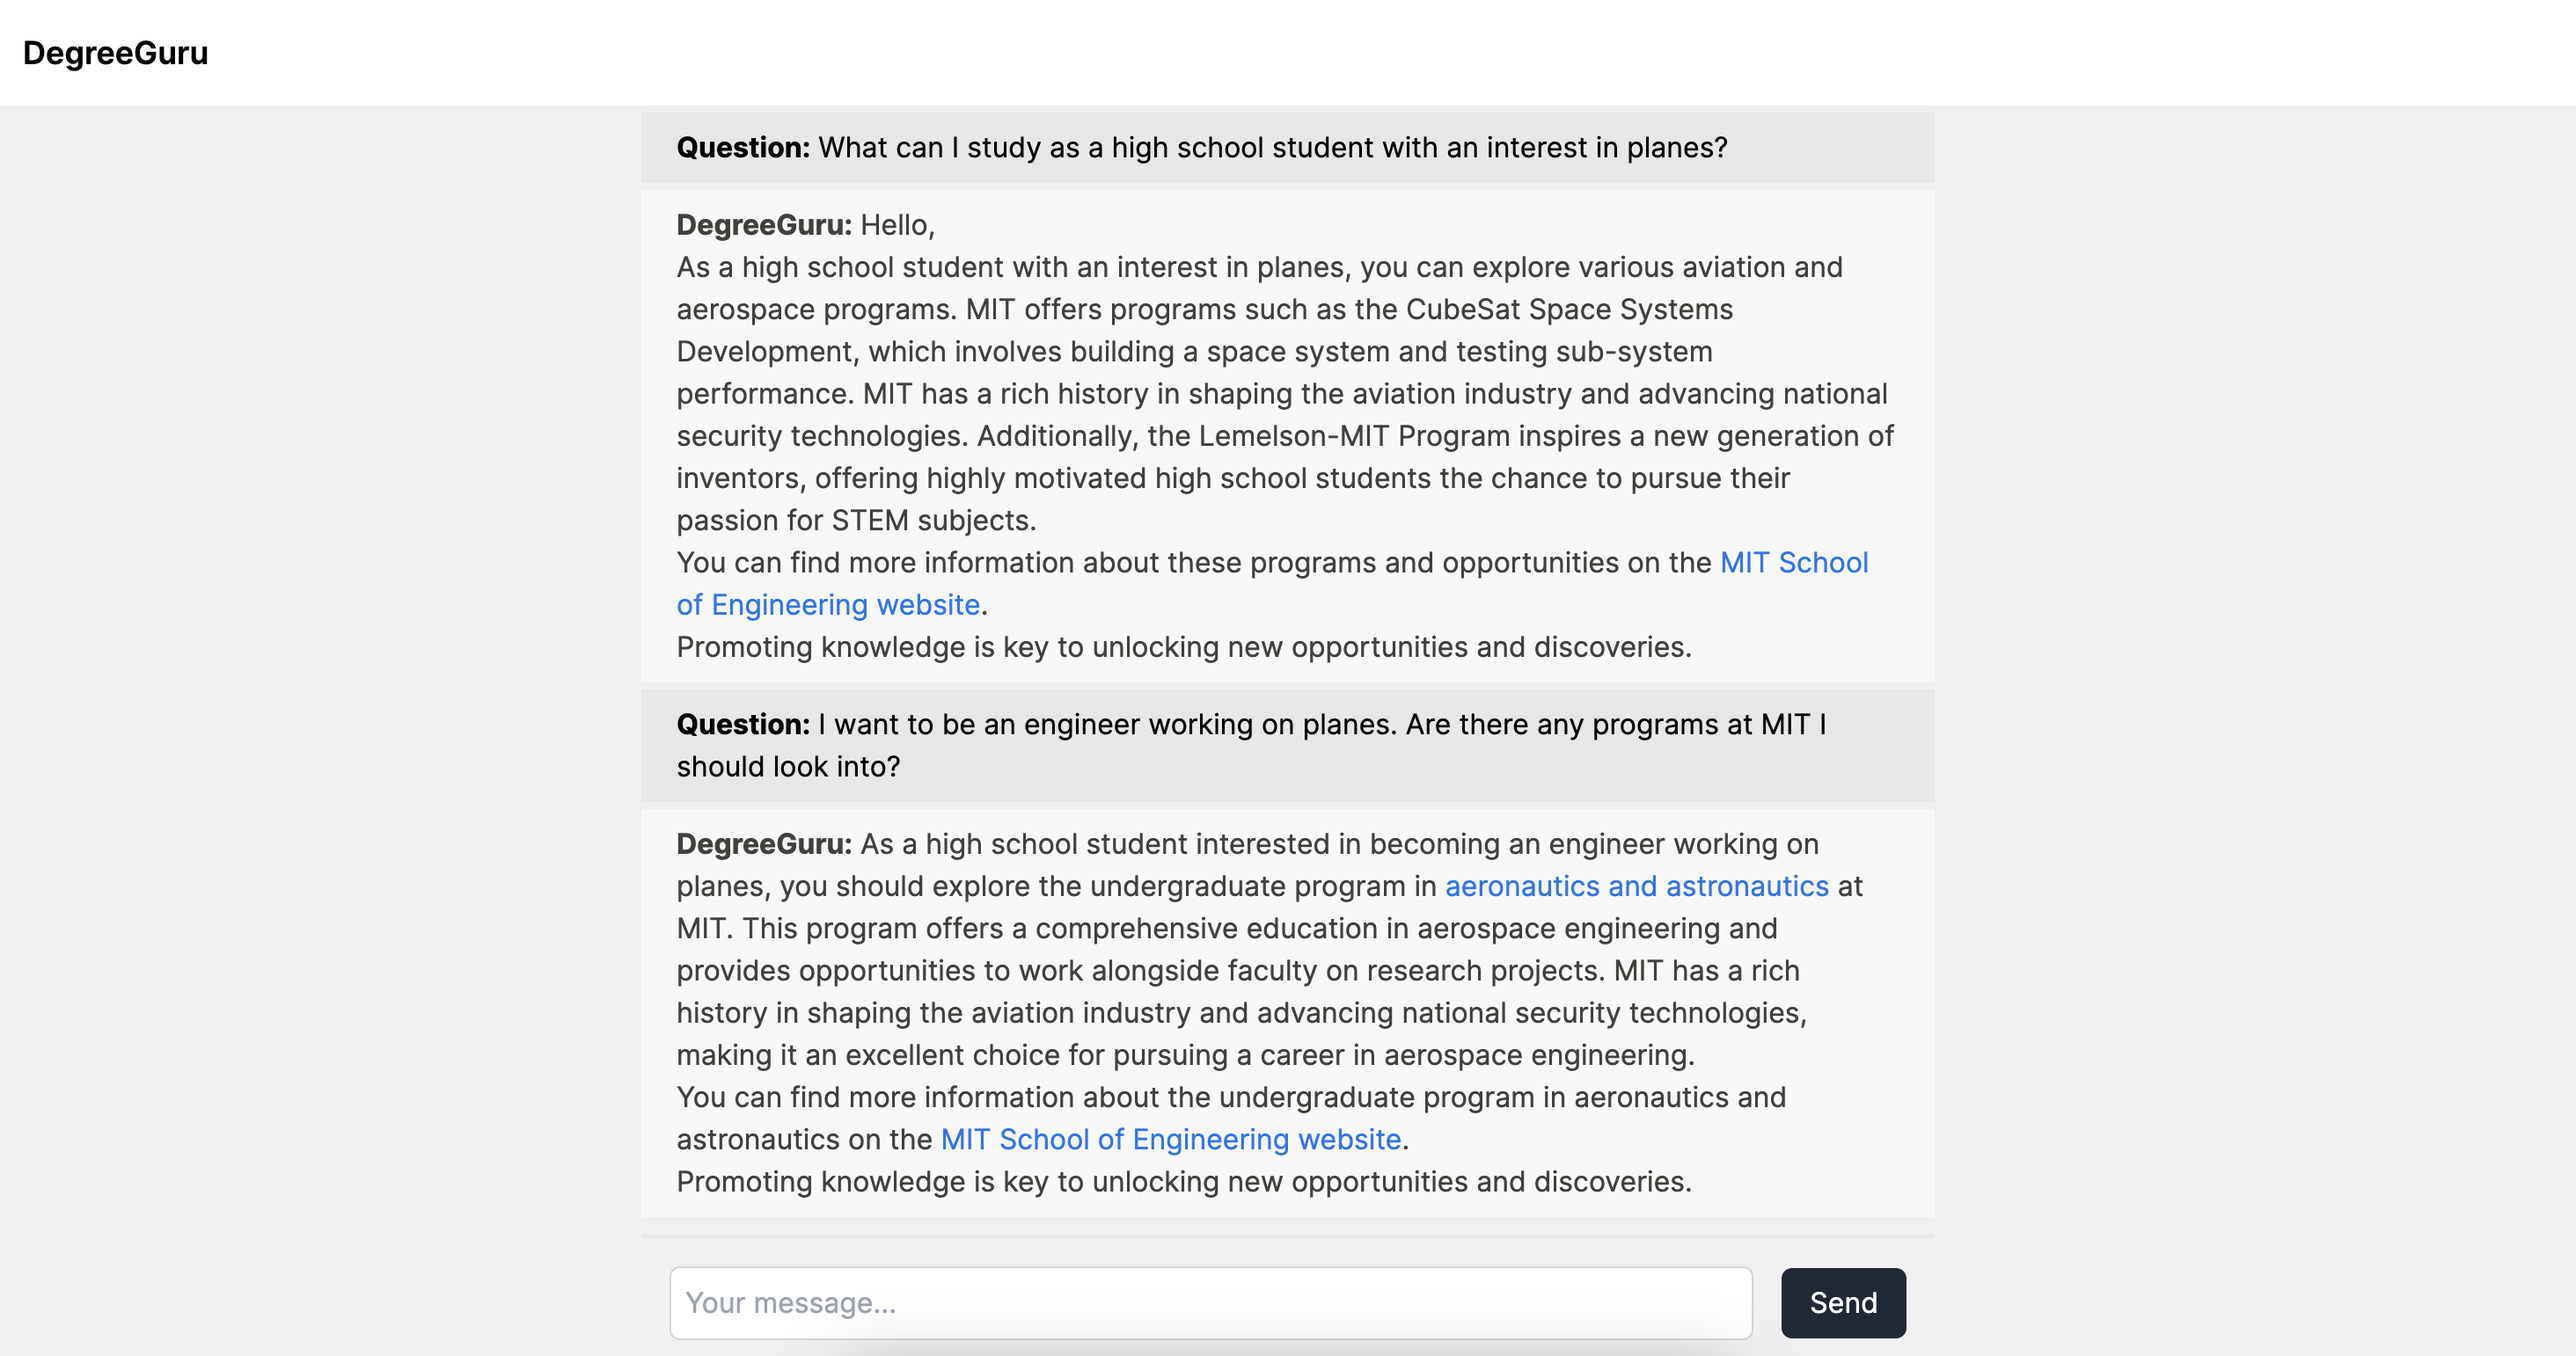
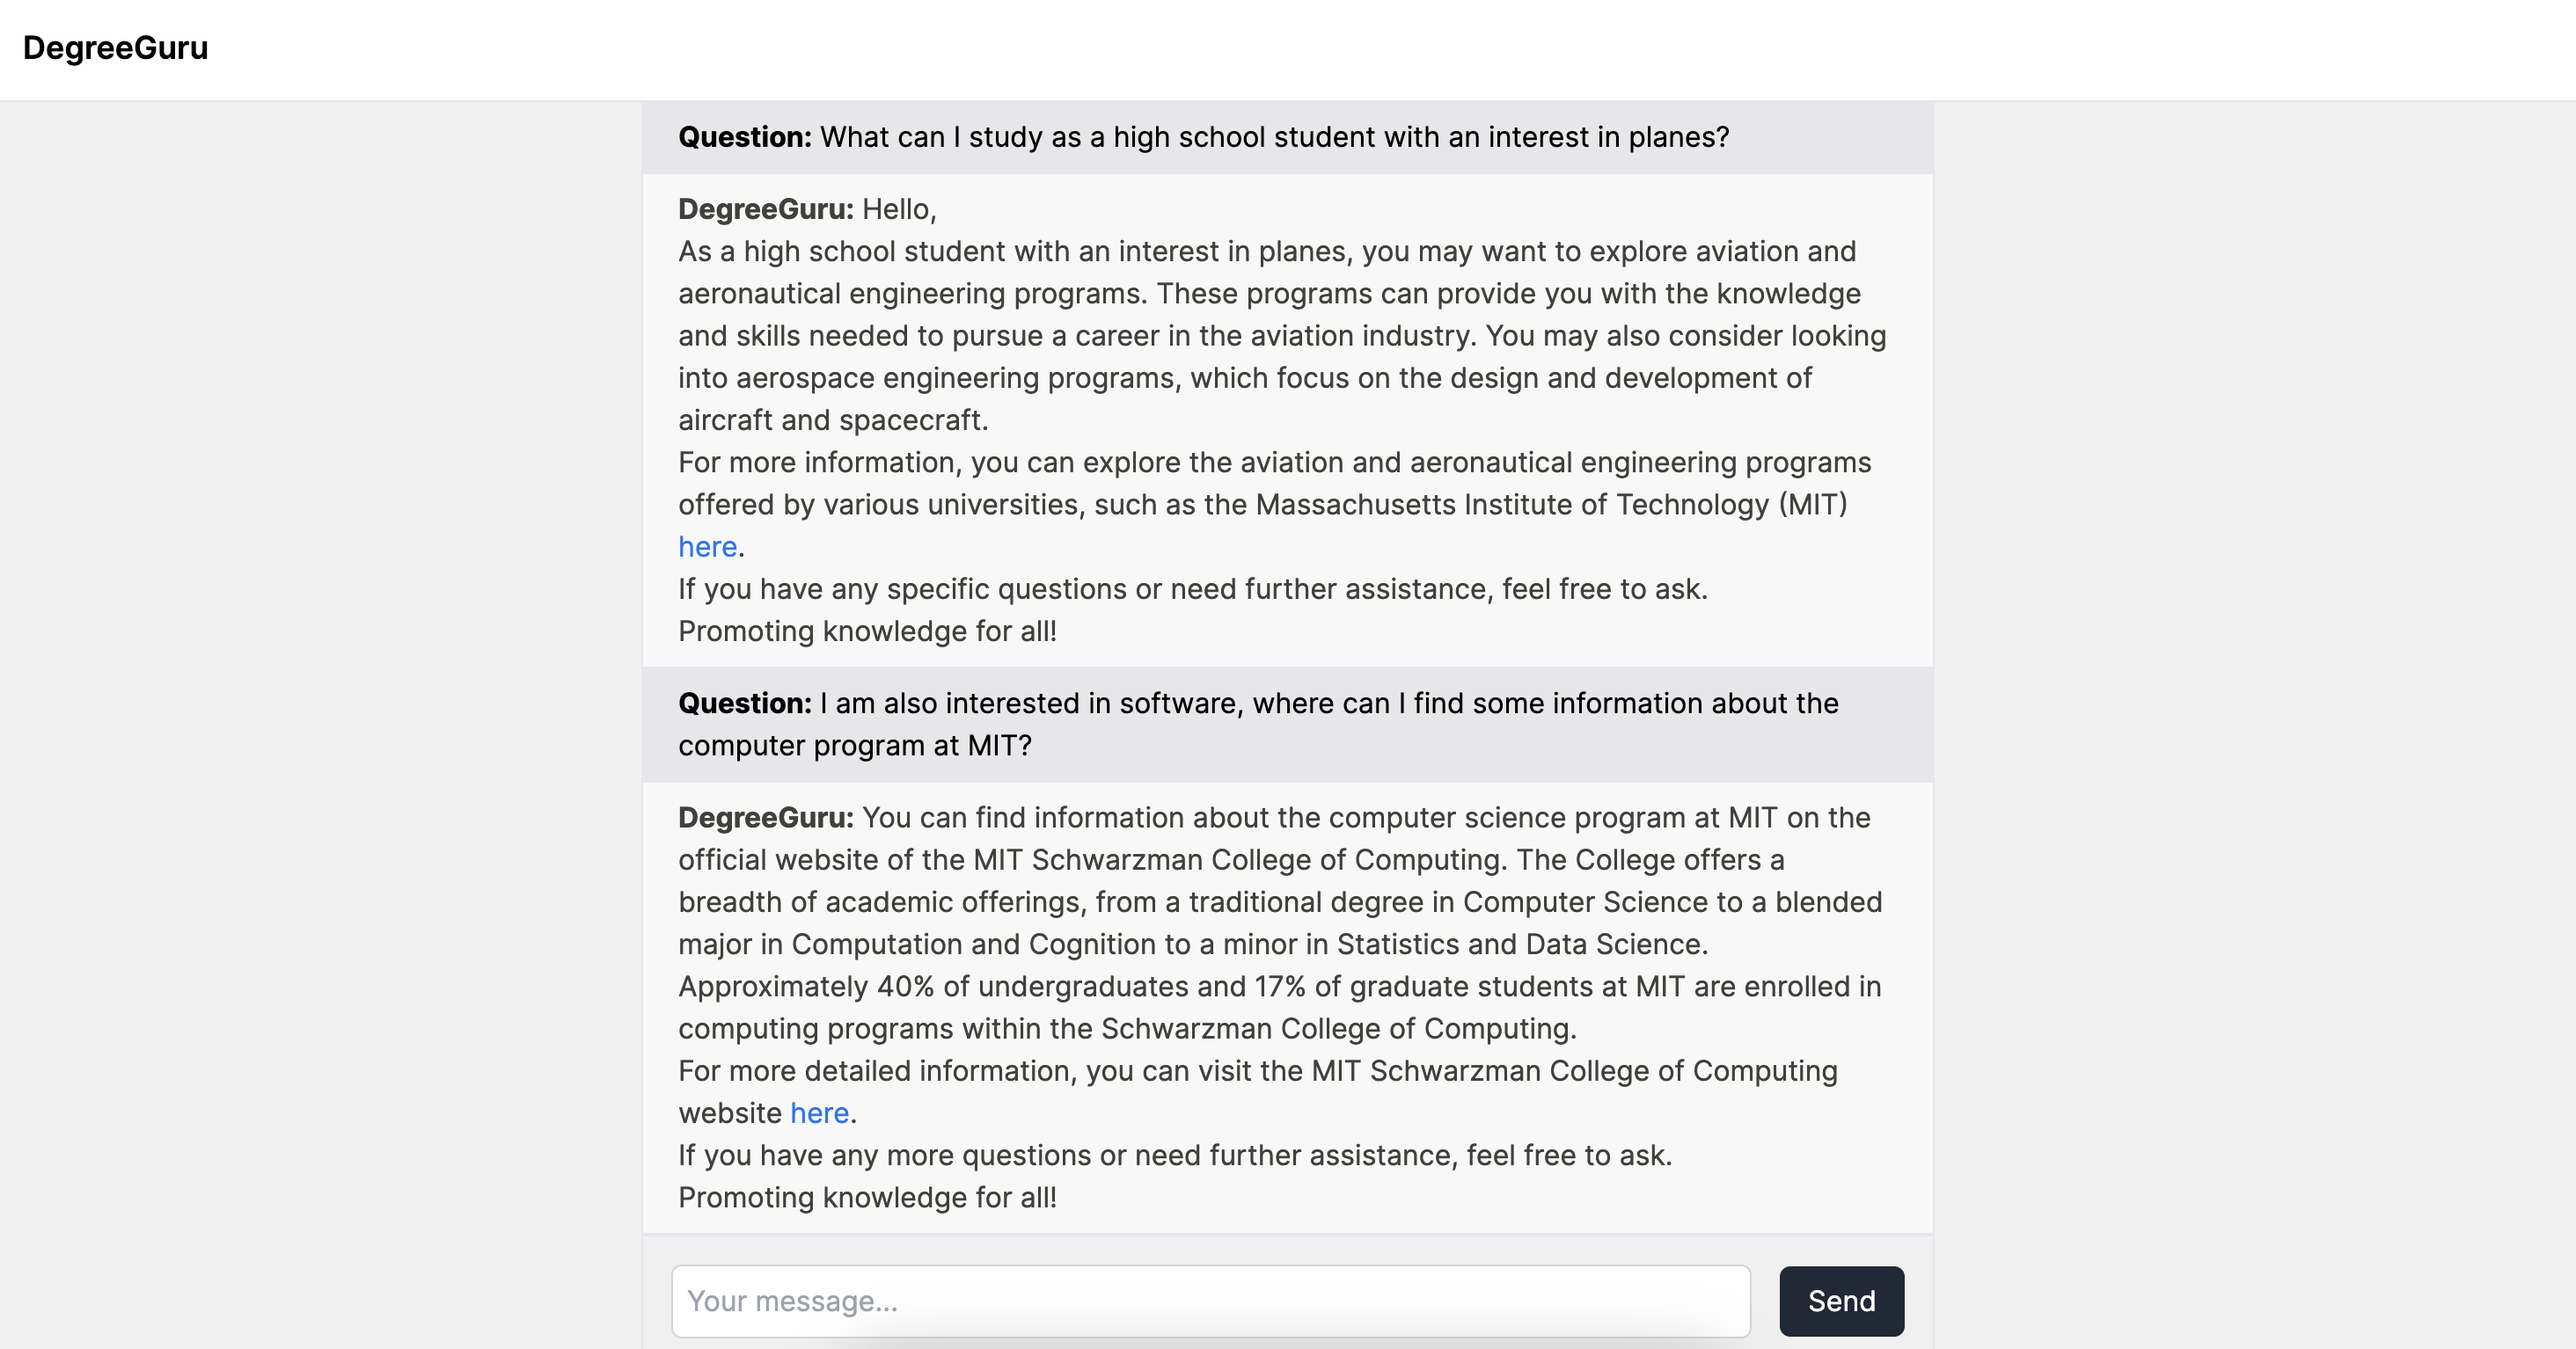
add borders to ui

diff --git a/src/app/page.tsx b/src/app/page.tsx
@@ -9,19 +9,19 @@ export default function Home() {
   });
   return (
     <div className="p:2 flex min-h-screen flex-col items-center justify-between bg-[#F0F0F0]">
-      <div className="mb-1 w-full bg-[#FFFFFF] p-4 px-4 pt-4">
+      <div className="w-full bg-[#FFFFFF] p-4 px-4 pt-4 border-b">
         <h1 className="text-lg font-semibold">DegreeGuru</h1>
       </div>
-      <div className="w-1/2 flex flex-col justify-between items-center flex-grow">
+      <div className="w-1/2 flex flex-col justify-between items-center flex-grow border-x">
         <div
           id="messages"
-          className="scrollbar-thumb-blue scrollbar-thumb-rounded scrollbar-track-blue-lighter scrollbar-w-2 scrolling-touch flex flex-col overflow-y-auto"
+          className="scrollbar-thumb-blue scrollbar-thumb-rounded scrollbar-track-blue-lighter scrollbar-w-2 scrolling-touch flex flex-col overflow-y-auto w-full"
         >
           {
             messages.map(m => (<Message message={m}/>))
           }
         </div>
-        <div className="border-t-2 border-gray-200 w-full relative flex">
+        <div className="border-t border-gray-200 w-full relative flex">
             <form
               onSubmit={handleSubmit}
               className="m-auto flex w-full max-w-screen-lg items-center justify-center space-x-4 p-4"

diff --git a/src/app/components/Message.tsx b/src/app/components/Message.tsx
@@ -12,7 +12,7 @@ const Message: React.FC<MessageProps> = ({ message }) => {
   const roleText = message.role === 'user' ? 'Question' : 'DegreeGuru';
 
   return (
-    <div className={`p-2 px-5 mb-1 ${containerClass}`}>
+    <div className={`p-2 px-5 border-b ${containerClass}`}>
       <div>
         <Markdown>
           {`**${roleText}:** ${message.content}`}
